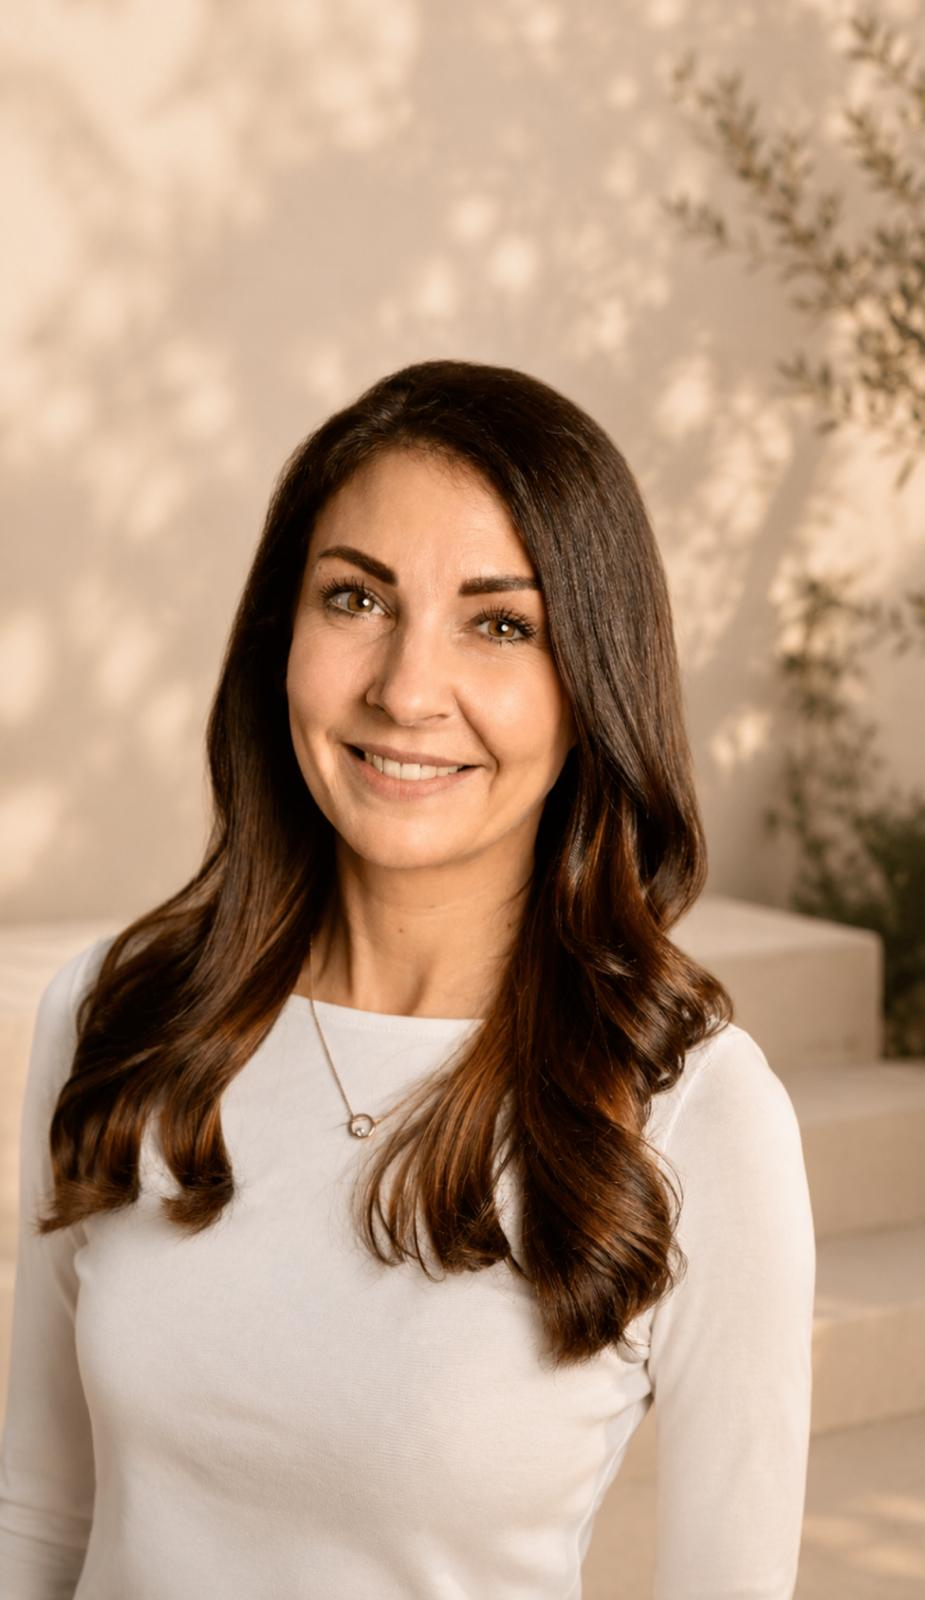
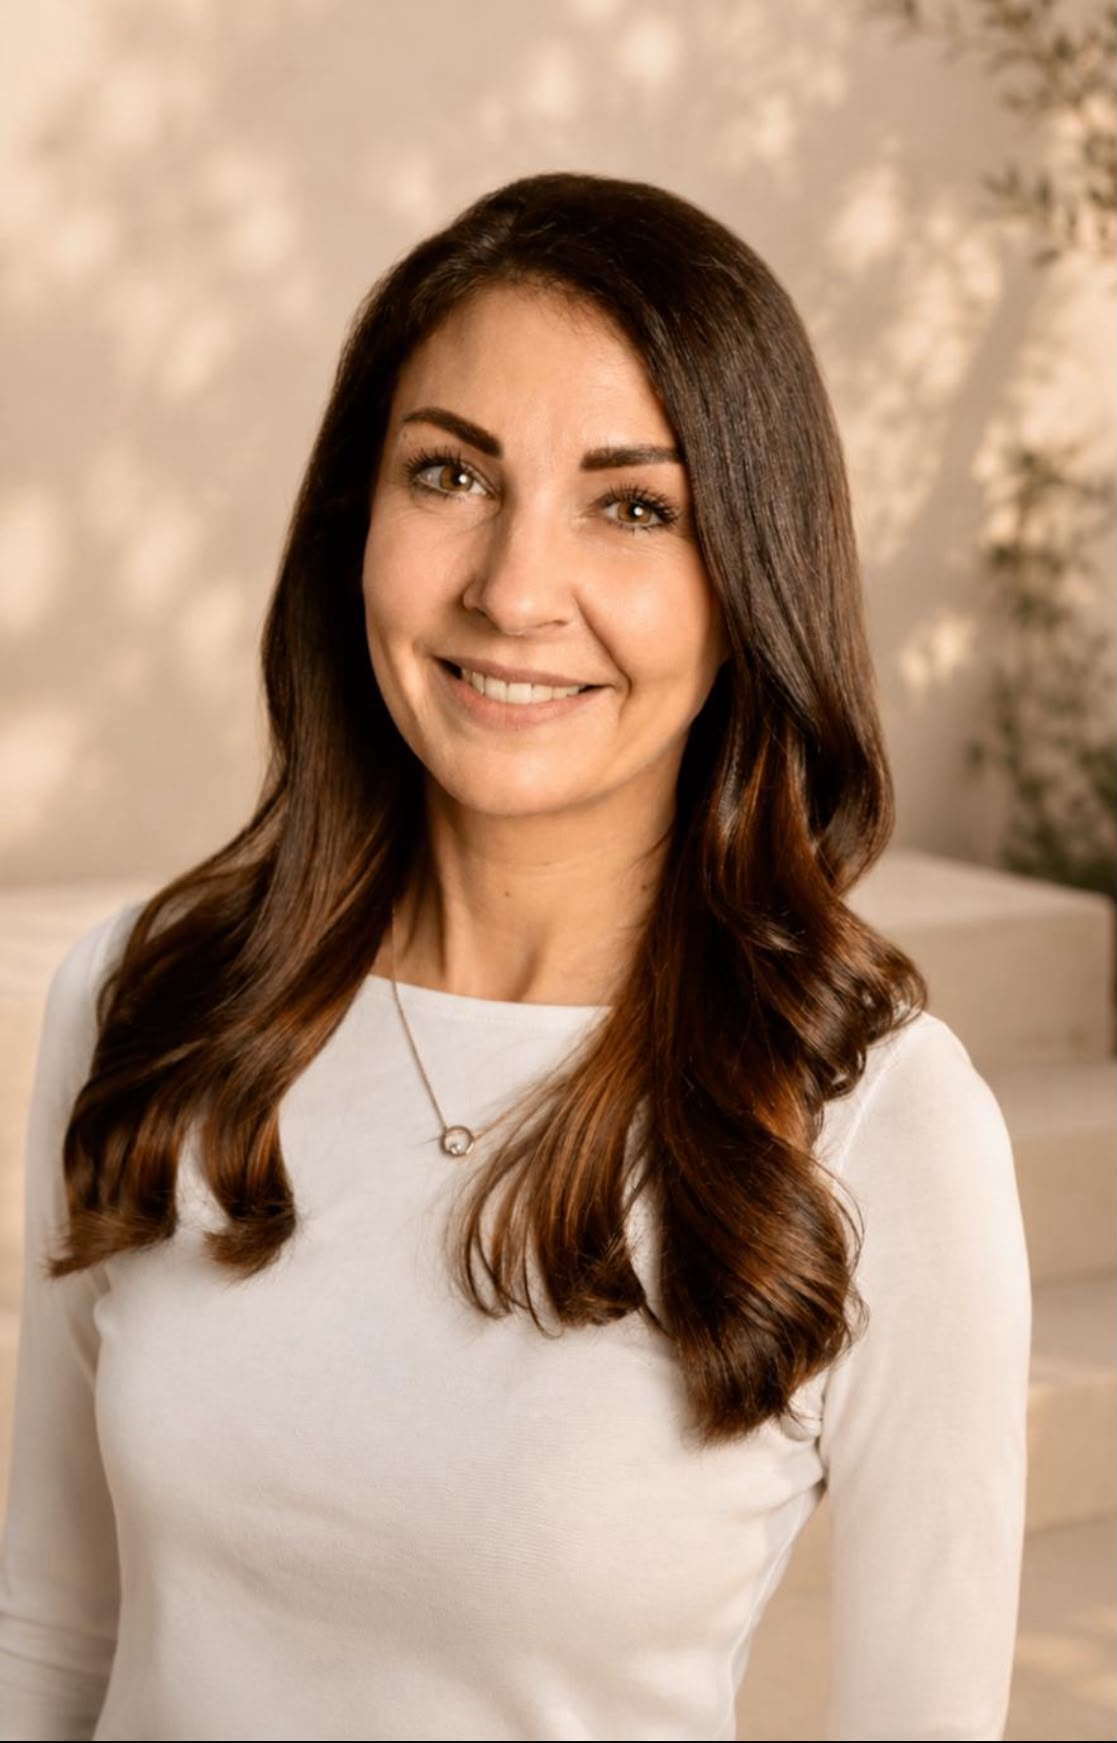
Kontaktformular mit nForms.eu eingebunden, Über-mich-Bild aktualisiert

diff --git a/index.html b/index.html
@@ -302,14 +302,14 @@
           <h2>Bereit für deinen ersten Schritt?</h2>
           <p>Schreib mir – ich melde mich bei dir für ein kostenloses Kennenlerngespräch.</p>
         </div>
-        <form class="contact__form" action="#" method="POST">
+        <form class="contact__form" id="contact-form" data-nforms-key="nf_ddkrgyewqsub2nulpb2zzidycgpgmt95" action="https://api.nforms.eu/f/nf_ddkrgyewqsub2nulpb2zzidycgpgmt95" method="POST">
           <div class="contact__field">
             <label for="contact-name">Name</label>
-            <input type="text" id="contact-name" name="name" placeholder="Dein Name" required />
+            <input type="text" id="contact-name" name="name" data-validate="required|minlength:2" placeholder="Dein Name" required />
           </div>
           <div class="contact__field">
             <label for="contact-email">E-Mail</label>
-            <input type="email" id="contact-email" name="email" placeholder="deine@email.at" required />
+            <input type="email" id="contact-email" name="email" data-validate="required|email" placeholder="deine@email.at" required />
           </div>
           <div class="contact__field">
             <label for="contact-phone">Telefon</label>
@@ -317,8 +317,9 @@
           </div>
           <div class="contact__field">
             <label for="contact-message">Nachricht</label>
-            <textarea id="contact-message" name="message" rows="4" placeholder="Wobei kann ich dich unterstützen?"></textarea>
+            <textarea id="contact-message" name="message" data-validate="required|minlength:10" rows="4" placeholder="Wobei kann ich dich unterstützen?"></textarea>
           </div>
+          <div id="form-status" style="display:none;font-size:.9rem;padding:.75rem 1rem;border-radius:8px;"></div>
           <button type="submit" class="btn btn--primary contact__submit">Nachricht senden</button>
         </form>
       </div>
@@ -634,5 +635,6 @@
       });
     })();
   </script>
+<script src="https://api.nforms.eu/shield.js"></script>
 </body>
 </html>
